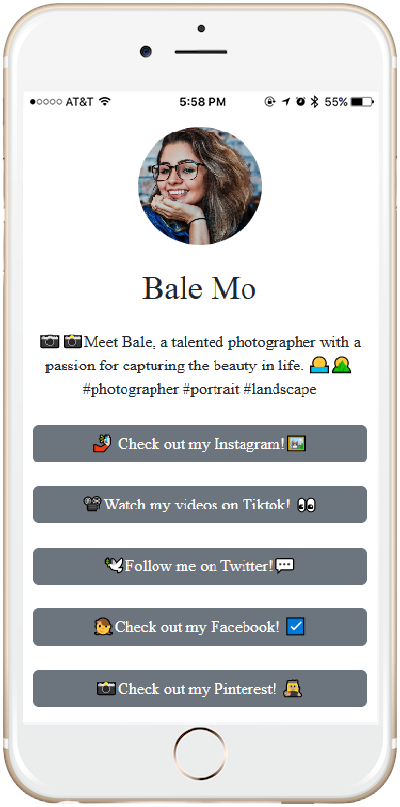
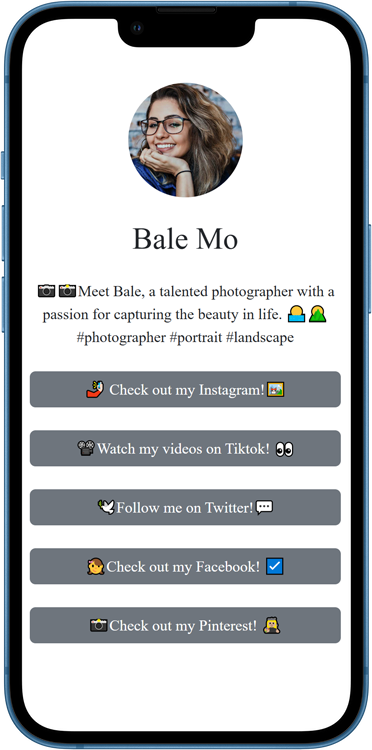
Changed the iphone image and

diff --git a/templates/enduser_header.html b/templates/enduser_header.html
@@ -8,7 +8,7 @@
     <meta name="description" content="">
     <meta name="author" content="">
 
-    <title>user.name</title>
+    <title>{{ user.name }}</title>
 
     <!-- Bootstrap core CSS -->
     <link href="https://cdn.jsdelivr.net/npm/bootstrap@5.2.2/dist/css/bootstrap.min.css" rel="stylesheet" integrity="sha384-Zenh87qX5JnK2Jl0vWa8Ck2rdkQ2Bzep5IDxbcnCeuOxjzrPF/et3URy9Bv1WTRi" crossorigin="anonymous">
